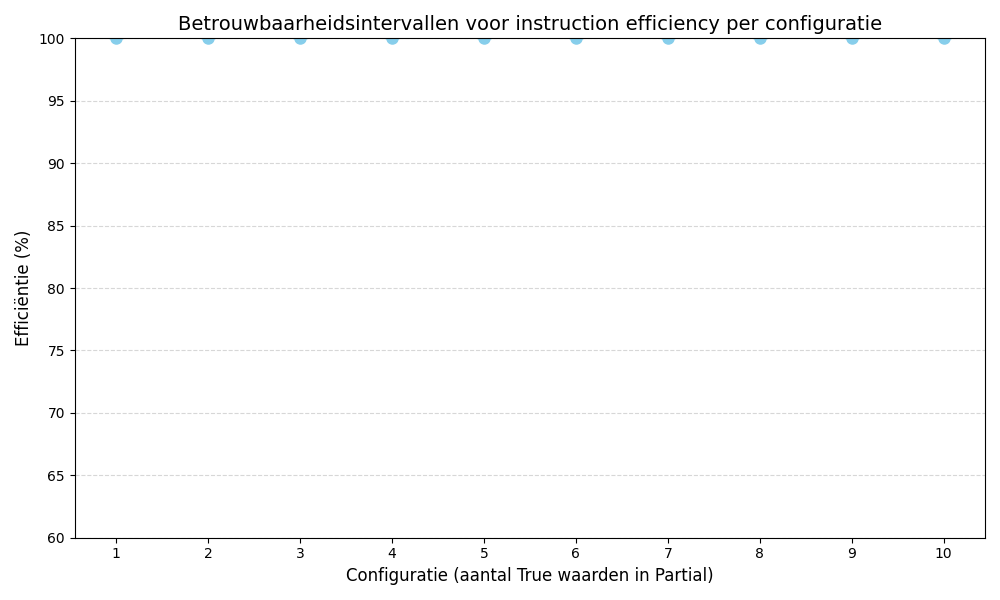
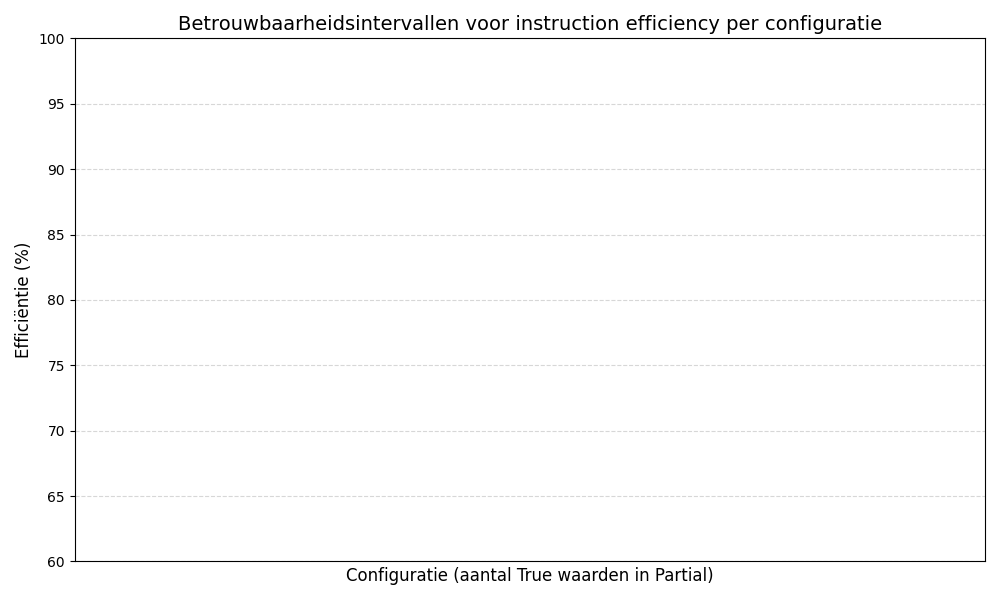
changes in calculation isntruction efficiency

diff --git a/SettlementModel.py b/SettlementModel.py
@@ -310,22 +310,21 @@ class SettlementModel(Model):
         child instructions.
 
         Two metrics are computed:
-         - Instruction Efficiency: the percentage of original instruction pairs (mother instructions)
-           that ended up fully settled (either directly or via child instructions covering the full amount).
+         - Instruction Efficiency: the percentage of eligible original instruction pairs that
+           reached settled status, either directly or through their child instructions.
          - Value Efficiency: the ratio (in percent) of the total settled (effective) value to the total
            intended settlement value.
 
         Original instructions are those with motherID == "mother", and they are grouped by their linkcode.
-        In case of partial settlement (both instructions cancelled due to partial settlement), this method
-        recursively aggregates settled amounts from child instructions.
+        For partial settlements, we check if the child instructions ultimately reached settlement.
 
         Returns:
             A tuple (instruction_efficiency_percentage, value_efficiency_percentage)
         """
         fully_settled_pairs = 0
+        eligible_original_pairs = 0
         total_intended_value = 0.0
         total_settled_value = 0.0
-        eligible_instruction_pairs = 0
 
         main_start = self.simulation_start + self.warm_up_period
         main_end = self.simulation_end - self.cool_down_period
@@ -346,31 +345,91 @@ class SettlementModel(Model):
             total_intended_value += intended_amount
 
             # Case 1: Fully settled directly (both instructions settled on time or late).
-            if (pair[0].get_status() in ["Settled on time"] and
-                    pair[1].get_status() in ["Settled on time"]):
+            if (pair[0].get_status() in ["Settled on time", "Settled late"] and
+                    pair[1].get_status() in ["Settled on time", "Settled late"]):
+                eligible_original_pairs += 1
                 fully_settled_pairs += 1
                 total_settled_value += intended_amount
-                eligible_instruction_pairs += 1
 
-            # Case 2: Partial settlement – both instructions were cancelled due to partial settlement.
+            # Case 2: Partial settlement – check if child instructions reached settlement
             elif (pair[0].get_status() == "Cancelled due to partial settlement" and
                   pair[1].get_status() == "Cancelled due to partial settlement"):
-                # Recursively sum settled amounts from child instructions (and their descendants).
+                # Calculate settled value for value efficiency
                 settled_child_value = (self.get_recursive_settled_amount(pair[0]) +
                                        self.get_recursive_settled_amount(pair[1]))
-                # The effective settled amount is capped at the intended amount.
                 effective_settled = min(settled_child_value, intended_amount)
                 total_settled_value += effective_settled
-                # Count the pair as fully settled if the effective settled value equals the intended value.
-                if effective_settled == intended_amount:
-                    fully_settled_pairs += 1
-                    eligible_instruction_pairs +=1
-            # Other statuses are considered as not settled.
 
-        instruction_efficiency = (fully_settled_pairs / eligible_instruction_pairs) * 100 if eligible_instruction_pairs > 0 else 0
-        value_efficiency = (total_settled_value / total_intended_value) * 100 if total_intended_value > 0 else 0
+                # NEW: Check if all child instructions are settled
+                # Get all child instructions for this pair
+                child_instructions = self.get_all_child_instructions(pair[0].uniqueID, pair[1].uniqueID)
+
+                # Check if all child instructions are either settled or cancelled due to further partial settlement
+                all_children_settled = True
+                for child in child_instructions:
+                    if child.get_status() not in ["Settled on time", "Settled late",
+                                                  "Cancelled due to partial settlement"]:
+                        all_children_settled = False
+                        break
+
+                # If all children are settled or further partially settled, count this pair as successful
+                if all_children_settled and effective_settled >= intended_amount * 0.99:  # Allow for small rounding differences
+                    eligible_original_pairs += 1
+                    fully_settled_pairs += 1
+
+            # Case 3: Other statuses (failed, rejected, etc.)
+            else:
+                eligible_original_pairs += 1  # Count in denominator but not in numerator
+
+        instruction_efficiency = (
+                    fully_settled_pairs / eligible_original_pairs * 100) if eligible_original_pairs > 0 else 0
+        value_efficiency = (total_settled_value / total_intended_value * 100) if total_intended_value > 0 else 0
 
         return instruction_efficiency, value_efficiency
+
+    def get_all_child_instructions(self, instruction_id1, instruction_id2):
+        """
+        Recursively get all child instructions for a pair of mother instructions.
+
+        Args:
+            instruction_id1: ID of the first mother instruction
+            instruction_id2: ID of the second mother instruction
+
+        Returns:
+            List of all child instructions
+        """
+        children = []
+
+        # First level children
+        for inst in self.instructions:
+            if inst.motherID in [instruction_id1, instruction_id2]:
+                children.append(inst)
+                # Recursively add all descendants
+                further_children = self.get_all_descendants(inst.uniqueID)
+                children.extend(further_children)
+
+        return children
+
+    def get_all_descendants(self, instruction_id):
+        """
+        Recursively get all descendants of an instruction.
+
+        Args:
+            instruction_id: ID of the parent instruction
+
+        Returns:
+            List of all descendant instructions
+        """
+        descendants = []
+
+        for inst in self.instructions:
+            if inst.motherID == instruction_id:
+                descendants.append(inst)
+                # Recursively add further descendants
+                further_descendants = self.get_all_descendants(inst.uniqueID)
+                descendants.extend(further_descendants)
+
+        return descendants
 
 
 

diff --git a/batchrunner.py b/batchrunner.py
@@ -10,7 +10,7 @@ def batch_runner():
         os.makedirs(log_folder)
 
     num_institutions = 10  # Aantal instituten in de simulatie
-    runs_per_config = 5  # Aantal simulaties per configuratie
+    runs_per_config = 1  # Aantal simulaties per configuratie
 
     efficiencies = []
 
